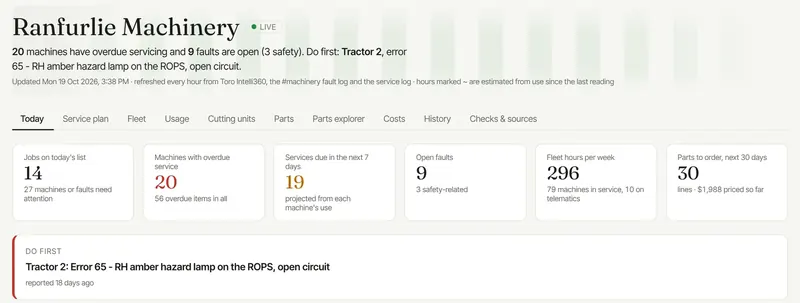
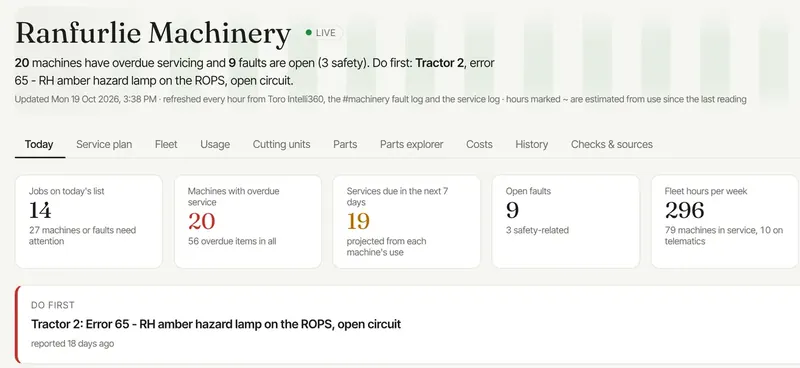
Showcase: add machinery parts blowup, remove budget pointers
Animated 3370 parts blowup (assembles and comes apart on scroll, with a
scrubber). Dropped the live read of the greens data file, took repo paths
out of screenshot frames, cropped the parts-priced tile off the machinery
screenshot.

Claude-Session: https://claude.ai/code/session_01XzEvadQZT5BamkSNE1nkJj

diff --git a/showcase/index.html b/showcase/index.html
@@ -388,6 +388,25 @@ p{margin:0 0 1em}
   .shot h3{font-size:26px}
 }
 
+/* ---------- parts blowup */
+.x3s{grid-column:span 12;display:grid;grid-template-columns:minmax(0,5fr) minmax(0,7fr);gap:clamp(22px,4vw,56px);align-items:center;margin-top:clamp(12px,3vw,30px)}
+.x3stage{position:relative;aspect-ratio:1;border-radius:22px;overflow:hidden;background:radial-gradient(ellipse at 50% 45%,#fff 0%,#eceee9 70%,#e2e4de 100%);border:1px solid var(--rule);box-shadow:0 30px 60px -34px rgba(19,48,74,.5);touch-action:pan-y}
+.x3wrap{position:absolute;inset:3%;transform-origin:50% 50%}
+.x3base,.x3lyr{position:absolute;inset:0;background-size:100% 100%;background-repeat:no-repeat}
+.x3lyr{will-change:transform}
+.x3lbl{position:absolute;left:0;top:0;transform:translate(-50%,-50%);white-space:nowrap;font:600 clamp(11px,1.15vw,14px)/1 var(--body);color:var(--ink);background:rgba(255,255,255,.94);border:1px solid var(--rule);border-radius:999px;padding:5px 9px;box-shadow:0 4px 12px -6px rgba(19,48,74,.45);opacity:0;pointer-events:none;z-index:40}
+.x3credit{position:absolute;right:12px;bottom:8px;font-size:11px;color:#8a8b85;z-index:41}
+.x3bar{display:flex;align-items:center;gap:12px;margin-top:14px;font-size:14px;color:var(--ink-2)}
+.x3bar input{flex:1;min-width:0;height:44px;accent-color:var(--ink);cursor:pointer}
+.x3bar .btn{min-height:40px;padding:0 16px;font-size:14px}
+.x3copy h3{font-size:44px;margin-bottom:14px}
+.x3copy p{color:var(--ink-2);font-size:17px}
+.x3copy ul{list-style:none;padding:0;margin:18px 0 0;display:grid;gap:10px}
+.x3copy li{padding-left:28px;position:relative;font-size:16px;color:var(--ink-2)}
+.x3copy li b{color:var(--ink)}
+.x3copy li::before{content:"";position:absolute;left:2px;top:6px;width:14px;height:14px;border-radius:4px;background:var(--dry);transform:rotate(45deg) scale(.8)}
+@media (max-width:980px){.x3s{grid-template-columns:minmax(0,1fr)}.x3s>*{min-width:0}.x3copy{order:-1}.x3copy h3{font-size:36px}.x3wrap{inset:1%}}
+
 /* ---------- ahead */
 .tiles{display:grid;grid-template-columns:repeat(3,minmax(0,1fr));gap:20px;margin-bottom:28px}
 .tile{background:var(--sheet);border:1px solid var(--rule);border-radius:16px;padding:20px 20px 18px;display:grid;grid-template-columns:auto 1fr;gap:16px;align-items:center}
@@ -690,7 +709,7 @@ html.og .stack .lbl{display:block}
     </div>
     <div class="bento">
       <figure class="shot s8">
-        <div class="frame" data-r="wipe"><div class="bar">ranfurlie-greens/irrigation</div><div class="pic"><img src="img/irrigation-3d.webp" srcset="img/irrigation-3d-800.webp 800w, img/irrigation-3d.webp 1600w" sizes="(max-width:980px) 100vw, 62vw" width="1600" height="1279" loading="lazy" decoding="async" alt="The irrigation dashboard in 3D: the course with open sprinkler jobs as pins"></div></div>
+        <div class="frame" data-r="wipe"><div class="bar">Irrigation board</div><div class="pic"><img src="img/irrigation-3d.webp" srcset="img/irrigation-3d-800.webp 800w, img/irrigation-3d.webp 1600w" sizes="(max-width:980px) 100vw, 62vw" width="1600" height="1279" loading="lazy" decoding="async" alt="The irrigation dashboard in 3D: the course with open sprinkler jobs as pins"></div></div>
       </figure>
       <div class="side-note s4" data-r>
         <h3>Irrigation</h3>
@@ -699,15 +718,15 @@ html.og .stack .lbl{display:block}
         <a class="go" href="../irrigation/">Open the irrigation board</a>
       </div>
       <figure class="shot s6">
-        <div class="frame" data-r="wipe"><div class="bar">ranfurlie-greens/drainage</div><div class="pic"><img src="img/drainage-3d.webp" srcset="img/drainage-3d-800.webp 800w, img/drainage-3d.webp 1600w" sizes="(max-width:980px) 100vw, 48vw" width="1600" height="1386" loading="lazy" decoding="async" alt="The drainage dashboard showing pipes and pits under the course in 3D"></div></div>
+        <div class="frame" data-r="wipe"><div class="bar">Drainage board</div><div class="pic"><img src="img/drainage-3d.webp" srcset="img/drainage-3d-800.webp 800w, img/drainage-3d.webp 1600w" sizes="(max-width:980px) 100vw, 48vw" width="1600" height="1386" loading="lazy" decoding="async" alt="The drainage dashboard showing pipes and pits under the course in 3D"></div></div>
         <figcaption data-r><h3>Drainage</h3><p>Pits, pipes and outfalls from the drainage plans, shown underground in 3D, with every reported blockage on top.</p><a class="go" href="../drainage/">Open the drainage board</a></figcaption>
       </figure>
       <figure class="shot s6">
-        <div class="frame" data-r="wipe" style="--rd:.15s"><div class="bar">ranfurlie-greens/bunkers</div><div class="pic"><img src="img/bunkers-3d.webp" srcset="img/bunkers-3d-800.webp 800w, img/bunkers-3d.webp 1600w" sizes="(max-width:980px) 100vw, 48vw" width="1600" height="1358" loading="lazy" decoding="async" alt="The bunker dashboard with every bunker on the course in 3D"></div></div>
+        <div class="frame" data-r="wipe" style="--rd:.15s"><div class="bar">Bunker board</div><div class="pic"><img src="img/bunkers-3d.webp" srcset="img/bunkers-3d-800.webp 800w, img/bunkers-3d.webp 1600w" sizes="(max-width:980px) 100vw, 48vw" width="1600" height="1358" loading="lazy" decoding="async" alt="The bunker dashboard with every bunker on the course in 3D"></div></div>
         <figcaption data-r><h3>Bunkers</h3><p>All 90 bunkers numbered and audited: washouts, exposed liner, sand top-ups and the sand used. A map video of the open work goes to the crew when it changes.</p><a class="go" href="../bunkers/">Open the bunker board</a></figcaption>
       </figure>
       <figure class="shot s5">
-        <div class="frame" data-r="wipe"><div class="bar">ranfurlie-greens</div><div class="pic"><img src="img/greens-map.webp" srcset="img/greens-map-800.webp 800w, img/greens-map.webp 1600w" sizes="(max-width:980px) 100vw, 40vw" width="1600" height="1310" loading="lazy" decoding="async" alt="The greens dashboard course map coloured by moisture from the latest TurfRad scan"></div></div>
+        <div class="frame" data-r="wipe"><div class="bar">Greens Live</div><div class="pic"><img src="img/greens-map.webp" srcset="img/greens-map-800.webp 800w, img/greens-map.webp 1600w" sizes="(max-width:980px) 100vw, 40vw" width="1600" height="1310" loading="lazy" decoding="async" alt="The greens dashboard course map coloured by moisture from the latest TurfRad scan"></div></div>
         <figcaption data-r><h3>Greens Live</h3><p>Moisture, growth, clippings, soil probes, disease cover, PGR clocks and the next three days of spray windows on one page. The monthly Greens Report for the committee is built from the same data.</p></figcaption>
       </figure>
       <div class="stackcol s7">
@@ -715,13 +734,31 @@ html.og .stack .lbl{display:block}
         <div class="frame" data-r="wipe" style="--rd:.2s"><div class="pic"><img src="img/greens-moisture-heat.webp" srcset="img/greens-moisture-heat-800.webp 800w, img/greens-moisture-heat.webp 1600w" sizes="(max-width:980px) 100vw, 56vw" width="1600" height="521" loading="lazy" decoding="async" alt="Moisture by green and by day, with the dry days outlined"></div></div>
       </div>
       <figure class="shot s7">
-        <div class="frame" data-r="wipe"><div class="bar">ranfurlie-greens/machinery</div><div class="pic"><img src="img/machinery-top.webp" srcset="img/machinery-top-800.webp 800w, img/machinery-top.webp 1600w" sizes="(max-width:980px) 100vw, 56vw" width="1600" height="606" loading="lazy" decoding="async" alt="The machinery dashboard: overdue services, open faults and the job to do first"></div></div>
+        <div class="frame" data-r="wipe"><div class="bar">Machinery</div><div class="pic"><img src="img/machinery-top.webp" srcset="img/machinery-top-800.webp 800w, img/machinery-top.webp 1316w" sizes="(max-width:980px) 100vw, 56vw" width="1316" height="606" loading="lazy" decoding="async" alt="The machinery dashboard: overdue services, open faults and the job to do first"></div></div>
         <figcaption data-r><h3>Machinery</h3><p>79 machines in service. Hours from Toro telematics, faults from Slack, and services projected from how much each machine actually gets used. The mechanic's list is waiting at 5:35 on weekday mornings, safety faults first.</p></figcaption>
       </figure>
       <figure class="shot s5">
         <div class="frame" data-r="wipe" style="--rd:.15s"><div class="pic"><img src="img/machinery-plan.webp" srcset="img/machinery-plan-800.webp 800w, img/machinery-plan.webp 1600w" sizes="(max-width:980px) 100vw, 40vw" width="1600" height="938" loading="lazy" decoding="async" alt="The next eight weeks of servicing, one row per machine"></div></div>
         <figcaption data-r><p>The next eight weeks of servicing, one row per machine. Red is overdue.</p></figcaption>
       </figure>
+      <div class="x3s" id="x3s">
+        <div class="x3copy" data-r>
+          <h3>Parts blowup</h3>
+          <p>The mechanic shouldn't need a parts book open to order a part. On the machinery board, 12 of our machine models come apart like this: tap any part and it shows the part numbers from the parts book, what's on the shelf, and where to order it.</p>
+          <ul>
+            <li><b>Genuine and aftermarket</b> side by side, so we pick the best value, not just the dealer's price.</li>
+            <li><b>Cutting units come out on their own</b>, with the bedknife, reel and bearing parts listed against them.</li>
+            <li><b>Stock counts update every hour</b> from the shed stocktake.</li>
+          </ul>
+        </div>
+        <div data-r="pop">
+          <div class="x3stage" id="x3stage" role="img" aria-label="A Toro Greensmaster eTriFlex 3370 greens mower that comes apart into its labelled parts: ROPS, seat, steering, battery covers, rear body, frame, lift arms, three cutting units, baskets and tyres.">
+            <div class="x3wrap" id="x3wrap"></div>
+            <span class="x3credit">Photo: Toro product image</span>
+          </div>
+          <div class="x3bar"><span>Assembled</span><input type="range" id="x3range" min="0" max="100" value="0" aria-label="Blow the mower apart"><span>Apart</span></div>
+        </div>
+      </div>
       <div class="phones s12">
         <div class="side-note" data-r>
           <h3>Spray mixes</h3>
@@ -745,7 +782,7 @@ html.og .stack .lbl{display:block}
   <div class="wrap">
     <div class="head">
       <h2 data-split>Seeing it before it shows.</h2>
-      <p class="lede" data-r>The best day on a course is the one where nothing goes wrong because we saw it coming. The greens dashboard keeps a running list of what's due, what's about to lapse and what the weather is going to do. This is that list, read straight from the live data.</p>
+      <p class="lede" data-r>The best day on a course is the one where nothing goes wrong because we saw it coming. The greens dashboard keeps a running list of what's due, what's about to lapse and what the weather is going to do. This is that list as it stood when this page was built.</p>
       <p><span class="live" id="liveTag">Snapshot</span></p>
     </div>
     <div class="tiles" id="tiles" data-stagger></div>
@@ -809,7 +846,7 @@ html.og .stack .lbl{display:block}
 </main>
 <footer>
   <div class="wrap">
-    <span>Built from the live data in this site's repository. Figures as of 19 October 2026 unless marked live.</span>
+    <span>Built from the crew dashboards' own data. Figures as of 19 October 2026.</span>
     <span>Made with Claude.</span>
   </div>
 </footer>
@@ -1095,6 +1132,48 @@ const G8={"green":[[-9.0,9.3],[-11.0,6.7],[-12.2,2.5],[-11.3,-3.1],[-9.5,-6.6],[
   onReveal(r,()=>{ if(mqMobile.matches&&!STILL) setTimeout(()=>{ r.scrollTo({left:60,behavior:'smooth'}); setTimeout(()=>r.scrollTo({left:0,behavior:'smooth'}),700); },900); });
 })();
 
+/* ---------- parts blowup */
+const X3={"w":554,"h":554,"parts":[{"l":"ROPS","ex":[25,-55],"poly":[[322,32],[338,18],[428,17],[470,38],[500,70],[506,92],[492,100],[484,140],[476,210],[470,268],[462,302],[449,300],[456,250],[466,150],[474,100],[468,74],[430,34],[346,32],[334,48],[352,72],[372,88],[378,98],[364,110],[357,140],[346,210],[338,213],[338,180],[348,120],[356,98],[338,80],[324,58]]},{"l":"Rear tyre","ex":[50,25],"poly":[[528.0,392.0],[527.5,399.6],[525.9,407.0],[523.4,414.0],[520.0,420.3],[515.9,425.7],[511.0,430.1],[505.6,433.3],[499.9,435.3],[494.0,436.0],[488.1,435.3],[482.4,433.3],[477.0,430.1],[472.1,425.7],[468.0,420.3],[464.6,414.0],[462.1,407.0],[460.5,399.6],[460.0,392.0],[460.5,384.4],[462.1,377.0],[464.6,370.0],[468.0,363.7],[472.1,358.3],[477.0,353.9],[482.4,350.7],[488.1,348.7],[494.0,348.0],[499.9,348.7],[505.6,350.7],[511.0,353.9],[515.9,358.3],[520.0,363.7],[523.4,370.0],[525.9,377.0],[527.5,384.4]]},{"l":"Rear body","ex":[55,-15],"poly":[[426,222],[462,216],[498,222],[540,256],[546,298],[530,322],[504,332],[468,338],[462,300],[440,290],[430,260]]},{"l":"Battery covers","ex":[40,10],"poly":[[262,284],[300,280],[420,284],[462,298],[468,330],[420,330],[350,326],[300,318],[262,312]]},{"l":"Seat","ex":[10,-45],"poly":[[352,165],[420,160],[428,175],[424,220],[416,262],[404,276],[300,276],[289,262],[292,248],[340,244],[346,200]]},{"l":"Steering","ex":[-45,-40],"poly":[[254,165],[275,155],[302,160],[326,180],[332,212],[318,236],[300,246],[244,244],[222,236],[214,226],[186,300],[178,322],[160,322],[172,286],[204,212],[216,196],[242,190],[254,178]]},{"l":"Frame and footplate","ex":[15,15],"poly":[[300,330],[360,326],[440,346],[476,344],[484,404],[452,412],[402,398],[334,392],[306,372]]},{"l":"Lift arms","ex":[-30,-5],"poly":[[140,318],[182,322],[218,334],[300,348],[306,370],[256,374],[218,360],[170,346],[140,334]]},{"l":"Cutting unit #1 centre","ex":[-10,30],"poly":[[196,372],[256,374],[306,374],[332,392],[330,424],[292,420],[232,406],[198,412]]},{"l":"Cutting unit #2","ex":[-45,15],"poly":[[95,356],[160,350],[198,368],[196,414],[150,420],[142,394],[112,380],[95,376]]},{"l":"Basket #2","ex":[-70,30],"poly":[[12,402],[40,382],[110,380],[142,396],[150,412],[148,472],[130,478],[26,466],[12,432]]},{"l":"Front tyre","ex":[40,40],"poly":[[459.0,444.0],[458.2,454.8],[455.7,465.2],[451.8,475.0],[446.4,483.9],[439.7,491.5],[432.0,497.7],[423.5,502.3],[414.4,505.1],[405.0,506.0],[395.6,505.1],[386.5,502.3],[378.0,497.7],[370.3,491.5],[363.6,483.9],[358.2,475.0],[354.3,465.2],[351.8,454.8],[351.0,444.0],[351.8,433.2],[354.3,422.8],[358.2,413.0],[363.6,404.1],[370.3,396.5],[378.0,390.3],[386.5,385.7],[395.6,382.9],[405.0,382.0],[414.4,382.9],[423.5,385.7],[432.0,390.3],[439.7,396.5],[446.4,404.1],[451.8,413.0],[455.7,422.8],[458.2,433.2]]},{"l":"Cutting unit #3","ex":[-20,40],"poly":[[244,396],[326,394],[350,446],[382,466],[380,526],[322,538],[296,528],[300,436],[286,410]]},{"l":"Basket #3","ex":[-55,55],"poly":[[150,424],[182,408],[286,412],[300,436],[300,502],[288,524],[168,506],[150,472]]}]};
+(function(){
+  const stage=$('#x3stage'), wrap=$('#x3wrap'), range=$('#x3range'); if(!stage) return;
+  const IMG='img/blowup-3370.webp', W=X3.w, Hh=X3.h, FX=matchMedia('(hover:hover) and (min-width:981px)').matches;
+  const base=document.createElement('div'); base.className='x3base'; base.style.backgroundImage=`url(${IMG})`; wrap.appendChild(base);
+  const L=X3.parts.map((p,i)=>{
+    const d=document.createElement('div'); d.className='x3lyr'; d.style.backgroundImage=`url(${IMG})`; d.style.zIndex=2+i;
+    d.style.clipPath='polygon('+p.poly.map(q=>(q[0]/W*100).toFixed(2)+'% '+(q[1]/Hh*100).toFixed(2)+'%').join(',')+')';
+    let cx=0,cy=0; p.poly.forEach(q=>{cx+=q[0];cy+=q[1]}); cx/=p.poly.length; cy/=p.poly.length;
+    d.style.transformOrigin=`${(cx/W*100).toFixed(2)}% ${(cy/Hh*100).toFixed(2)}%`;
+    wrap.appendChild(d);
+    const lb=document.createElement('span'); lb.className='x3lbl'; lb.textContent=p.l; wrap.appendChild(lb);
+    return {p,d,lb,cx,cy};
+  });
+  let t=0, goal=0, raf=null, auto=!(STILL||OG), seq=null, inView=false;
+  const ease=x=>x<.5?4*x*x*x:1-Math.pow(-2*x+2,3)/2;
+  function paint(){
+    const e=ease(t);
+    wrap.style.transform=`scale(${(1-.16*e).toFixed(3)})`;
+    base.style.opacity=(1-.72*e).toFixed(3);
+    if(FX) base.style.filter=`grayscale(${e.toFixed(2)}) blur(${(e*1.4).toFixed(2)}px)`;
+    L.forEach(x=>{
+      const dx=x.p.ex[0]/W*100*e*1.15, dy=x.p.ex[1]/Hh*100*e*1.15, sc=1+.05*e;
+      x.d.style.transform=`translate(${dx.toFixed(2)}%,${dy.toFixed(2)}%) scale(${sc.toFixed(3)})`;
+      if(FX) x.d.style.filter=e>.02?`drop-shadow(0 ${(10*e).toFixed(1)}px ${(14*e).toFixed(1)}px rgba(0,0,0,${(.32*e).toFixed(2)}))`:'none';
+      x.lb.style.left=((x.cx+x.p.ex[0]*e*1.15)/W*100).toFixed(2)+'%';
+      x.lb.style.top=((x.cy+x.p.ex[1]*e*1.15)/Hh*100).toFixed(2)+'%';
+      x.lb.style.opacity=Math.max(0,Math.min(1,(e-.45)*3)).toFixed(2);
+    });
+  }
+  function frame(){ t+=(goal-t)*.085; if(Math.abs(goal-t)<.002) t=goal; paint(); if(auto) range.value=Math.round(t*100);
+    raf=(t!==goal)?requestAnimationFrame(frame):null; }
+  const kick=()=>{ if(!raf) raf=requestAnimationFrame(frame); };
+  function loop(){ if(!auto||!inView) return; clearTimeout(seq);
+    seq=setTimeout(()=>{ goal=1; kick(); seq=setTimeout(()=>{ goal=0; kick(); seq=setTimeout(loop,2200); },3800); },900); }
+  range.addEventListener('input',()=>{ auto=false; clearTimeout(seq); goal=range.value/100; kick(); });
+  if(STILL||OG){ t=goal=1; range.value=100; paint(); return; }
+  paint();
+  new IntersectionObserver(es=>es.forEach(en=>{ inView=en.isIntersecting; if(inView) loop(); else clearTimeout(seq); }),{threshold:.35}).observe(stage);
+})();
+
 /* ---------- seeing ahead */
 const SNAP={"built":"Mon 19 Oct 2026, 6:27 AM","week":[{"date":"2026-10-19","cat":"Cultural","label":"Dusting interval (7 days)","detail":"last dust 2026-10-06"},{"date":"2026-10-19","cat":"Disease","label":"Fairy Ring moderate risk","detail":"no cover on approach, fairways, tees"},{"date":"2026-10-19","cat":"Planned","label":"5800 600L/Ha - Fairy Ring + Root Disease to Greens","detail":"Zeemil, Terreplex, Quali-Pro Evolution Advance (AU), Companion, HydroForce Ultra (AU)"},{"date":"2026-10-19","cat":"Spray","label":"Best spray day","detail":"4 good daylight hours (6:00-10:00)"},{"date":"2026-10-21","cat":"Cover","label":"Fairy Ring cover lapses","detail":"Velista (AU) \u00b7 greens"},{"date":"2026-10-21","cat":"Cover","label":"Pythium Root Rot cover lapses","detail":"Magellan \u00b7 greens"},{"date":"2026-10-22","cat":"Disease","label":"Anthracnose moderate risk","detail":"no cover on approach, greens"},{"date":"2026-10-22","cat":"Planned","label":"JD 500L/Ha - Tees - PGR + Fert","detail":"Shadow Ultra (AU), Grass Roots Iron (0-0-0), Liquimaxx Greenmaxx 20-0-0 AU (20-0-0)"},{"date":"2026-10-24","cat":"Weather","label":"Rain 27 mm","detail":"59% chance (Open-Meteo)"},{"date":"2026-10-26","cat":"Weather","label":"Rain 8 mm","detail":"56% chance (Open-Meteo)"},{"date":"2026-10-27","cat":"PGR","label":"Trinexapac due","detail":"200 GDD0 (now 67) \u00b7 last 2026-10-14"},{"date":"2026-10-27","cat":"Planned","label":"JD 300L/Ha - Fairways - Wetting Agent + LuxiMax","detail":"Pervade, Luximax"},{"date":"2026-10-27","cat":"Planned","label":"JD 600L/Ha - Tees - Wetting Agent","detail":"Pervade"},{"date":"2026-10-28","cat":"PGR","label":"Ethephon window opens","detail":"day 14 of the 14-28 day label interval"},{"date":"2026-10-30","cat":"PGR","label":"Paclobutrazol due","detail":"350 GDD0 (now 178) \u00b7 last 2026-10-07"}],"wa":{"effectiveness":0.629,"due_date":"2026-11-07","last_app":"2026-09-24","cum_et_mm":80.4,"product":"HydroForce Ultra (AU)"},"fw":{"need_holes":10,"need_kl":836.3,"as_of":"2026-10-19","course_now":18.2,"et_today_mm":5.66},"disease":[{"label":"Anthracnose","level_today":"none","level_peak":"moderate","peak_date":"2026-10-22"},{"label":"Fairy Ring","level_today":"moderate","level_peak":"moderate","peak_date":"2026-10-19"}],"clocks":[{"clock":"Trinexapac","area":"Greens","gdd":67.0,"target_gdd":200,"last_app":"2026-10-14","window_open_day":null,"days_since":5},{"clock":"Paclobutrazol","area":"Greens","gdd":178.0,"target_gdd":350,"last_app":"2026-10-07","window_open_day":null,"days_since":12},{"clock":"Ethephon","area":"Greens","gdd":67.0,"target_gdd":null,"last_app":"2026-10-14","window_open_day":14,"days_since":5},{"clock":"Couch TE","area":"Fairways","gdd":107.0,"target_gdd":252,"last_app":"2026-09-29","window_open_day":null,"days_since":20}]};
 const CAT={Spray:'#2E6A46',Disease:'#C2372C',Cover:'#C07A17',PGR:'#1C74C4',Planned:'#13304A',Weather:'#2B7A78',Cultural:'#768A98'};
@@ -1122,20 +1201,14 @@ function renderAhead(F,isLive){
     }
     $('#week').innerHTML=cols.join('');
   } else $('#week').innerHTML='<p class="empty">Nothing coming up.</p>';
-  const tag=$('#liveTag'); tag.textContent=isLive?`Live from the greens dashboard, built ${F.built}`:`Snapshot from ${F.built||'19 Oct 2026'}`; tag.classList.toggle('on',!!isLive);
+  const tag=$('#liveTag'); tag.textContent=`From the greens dashboard, ${F.built||'19 Oct 2026'}`; tag.classList.add('on');
   const fresh=$$('#tiles [data-r],#week [data-r]');
   if(STILL||OG||aheadShown){ fresh.forEach(e=>e.classList.add('in')); fillGauges(); }
   else fresh.forEach(e=>io.observe(e));
 }
 renderAhead(SNAP,false);
 onReveal($('#tiles'),()=>{ aheadShown=true; setTimeout(fillGauges,250); });
-function fromData(D){
-  const wa=(D.wetting_agent||[]).find(w=>w.zone==='greens')||{}, fp=(D.fairway_params||[])[0]||{};
-  return {built:D._built,week:(D.week_ahead||[]).map(w=>({date:w.date,cat:w.cat,label:w.label,detail:w.detail})),wa,fw:fp,clocks:D.clocks||[]};
-}
-let fetched=false;
-const go=()=>{if(fetched)return;fetched=true;fetch('../data.json',{cache:'no-store'}).then(r=>r.ok?r.json():Promise.reject()).then(D=>{try{renderAhead(fromData(D),true)}catch(e){renderAhead(SNAP,false)}}).catch(()=>{})};
-const io2=new IntersectionObserver(es=>{if(es.some(e=>e.isIntersecting)){go();io2.disconnect()}},{rootMargin:'900px'}); io2.observe($('#ahead'));
+
 })();
 </script>
 </body>

diff --git a/showcase/_build/template.html b/showcase/_build/template.html
@@ -388,6 +388,25 @@ p{margin:0 0 1em}
   .shot h3{font-size:26px}
 }
 
+/* ---------- parts blowup */
+.x3s{grid-column:span 12;display:grid;grid-template-columns:minmax(0,5fr) minmax(0,7fr);gap:clamp(22px,4vw,56px);align-items:center;margin-top:clamp(12px,3vw,30px)}
+.x3stage{position:relative;aspect-ratio:1;border-radius:22px;overflow:hidden;background:radial-gradient(ellipse at 50% 45%,#fff 0%,#eceee9 70%,#e2e4de 100%);border:1px solid var(--rule);box-shadow:0 30px 60px -34px rgba(19,48,74,.5);touch-action:pan-y}
+.x3wrap{position:absolute;inset:3%;transform-origin:50% 50%}
+.x3base,.x3lyr{position:absolute;inset:0;background-size:100% 100%;background-repeat:no-repeat}
+.x3lyr{will-change:transform}
+.x3lbl{position:absolute;left:0;top:0;transform:translate(-50%,-50%);white-space:nowrap;font:600 clamp(11px,1.15vw,14px)/1 var(--body);color:var(--ink);background:rgba(255,255,255,.94);border:1px solid var(--rule);border-radius:999px;padding:5px 9px;box-shadow:0 4px 12px -6px rgba(19,48,74,.45);opacity:0;pointer-events:none;z-index:40}
+.x3credit{position:absolute;right:12px;bottom:8px;font-size:11px;color:#8a8b85;z-index:41}
+.x3bar{display:flex;align-items:center;gap:12px;margin-top:14px;font-size:14px;color:var(--ink-2)}
+.x3bar input{flex:1;min-width:0;height:44px;accent-color:var(--ink);cursor:pointer}
+.x3bar .btn{min-height:40px;padding:0 16px;font-size:14px}
+.x3copy h3{font-size:44px;margin-bottom:14px}
+.x3copy p{color:var(--ink-2);font-size:17px}
+.x3copy ul{list-style:none;padding:0;margin:18px 0 0;display:grid;gap:10px}
+.x3copy li{padding-left:28px;position:relative;font-size:16px;color:var(--ink-2)}
+.x3copy li b{color:var(--ink)}
+.x3copy li::before{content:"";position:absolute;left:2px;top:6px;width:14px;height:14px;border-radius:4px;background:var(--dry);transform:rotate(45deg) scale(.8)}
+@media (max-width:980px){.x3s{grid-template-columns:minmax(0,1fr)}.x3s>*{min-width:0}.x3copy{order:-1}.x3copy h3{font-size:36px}.x3wrap{inset:1%}}
+
 /* ---------- ahead */
 .tiles{display:grid;grid-template-columns:repeat(3,minmax(0,1fr));gap:20px;margin-bottom:28px}
 .tile{background:var(--sheet);border:1px solid var(--rule);border-radius:16px;padding:20px 20px 18px;display:grid;grid-template-columns:auto 1fr;gap:16px;align-items:center}
@@ -690,7 +709,7 @@ html.og .stack .lbl{display:block}
     </div>
     <div class="bento">
       <figure class="shot s8">
-        <div class="frame" data-r="wipe"><div class="bar">ranfurlie-greens/irrigation</div><div class="pic"><img src="img/irrigation-3d.webp" srcset="img/irrigation-3d-800.webp 800w, img/irrigation-3d.webp 1600w" sizes="(max-width:980px) 100vw, 62vw" width="1600" height="1279" loading="lazy" decoding="async" alt="The irrigation dashboard in 3D: the course with open sprinkler jobs as pins"></div></div>
+        <div class="frame" data-r="wipe"><div class="bar">Irrigation board</div><div class="pic"><img src="img/irrigation-3d.webp" srcset="img/irrigation-3d-800.webp 800w, img/irrigation-3d.webp 1600w" sizes="(max-width:980px) 100vw, 62vw" width="1600" height="1279" loading="lazy" decoding="async" alt="The irrigation dashboard in 3D: the course with open sprinkler jobs as pins"></div></div>
       </figure>
       <div class="side-note s4" data-r>
         <h3>Irrigation</h3>
@@ -699,15 +718,15 @@ html.og .stack .lbl{display:block}
         <a class="go" href="../irrigation/">Open the irrigation board</a>
       </div>
       <figure class="shot s6">
-        <div class="frame" data-r="wipe"><div class="bar">ranfurlie-greens/drainage</div><div class="pic"><img src="img/drainage-3d.webp" srcset="img/drainage-3d-800.webp 800w, img/drainage-3d.webp 1600w" sizes="(max-width:980px) 100vw, 48vw" width="1600" height="1386" loading="lazy" decoding="async" alt="The drainage dashboard showing pipes and pits under the course in 3D"></div></div>
+        <div class="frame" data-r="wipe"><div class="bar">Drainage board</div><div class="pic"><img src="img/drainage-3d.webp" srcset="img/drainage-3d-800.webp 800w, img/drainage-3d.webp 1600w" sizes="(max-width:980px) 100vw, 48vw" width="1600" height="1386" loading="lazy" decoding="async" alt="The drainage dashboard showing pipes and pits under the course in 3D"></div></div>
         <figcaption data-r><h3>Drainage</h3><p>Pits, pipes and outfalls from the drainage plans, shown underground in 3D, with every reported blockage on top.</p><a class="go" href="../drainage/">Open the drainage board</a></figcaption>
       </figure>
       <figure class="shot s6">
-        <div class="frame" data-r="wipe" style="--rd:.15s"><div class="bar">ranfurlie-greens/bunkers</div><div class="pic"><img src="img/bunkers-3d.webp" srcset="img/bunkers-3d-800.webp 800w, img/bunkers-3d.webp 1600w" sizes="(max-width:980px) 100vw, 48vw" width="1600" height="1358" loading="lazy" decoding="async" alt="The bunker dashboard with every bunker on the course in 3D"></div></div>
+        <div class="frame" data-r="wipe" style="--rd:.15s"><div class="bar">Bunker board</div><div class="pic"><img src="img/bunkers-3d.webp" srcset="img/bunkers-3d-800.webp 800w, img/bunkers-3d.webp 1600w" sizes="(max-width:980px) 100vw, 48vw" width="1600" height="1358" loading="lazy" decoding="async" alt="The bunker dashboard with every bunker on the course in 3D"></div></div>
         <figcaption data-r><h3>Bunkers</h3><p>All 90 bunkers numbered and audited: washouts, exposed liner, sand top-ups and the sand used. A map video of the open work goes to the crew when it changes.</p><a class="go" href="../bunkers/">Open the bunker board</a></figcaption>
       </figure>
       <figure class="shot s5">
-        <div class="frame" data-r="wipe"><div class="bar">ranfurlie-greens</div><div class="pic"><img src="img/greens-map.webp" srcset="img/greens-map-800.webp 800w, img/greens-map.webp 1600w" sizes="(max-width:980px) 100vw, 40vw" width="1600" height="1310" loading="lazy" decoding="async" alt="The greens dashboard course map coloured by moisture from the latest TurfRad scan"></div></div>
+        <div class="frame" data-r="wipe"><div class="bar">Greens Live</div><div class="pic"><img src="img/greens-map.webp" srcset="img/greens-map-800.webp 800w, img/greens-map.webp 1600w" sizes="(max-width:980px) 100vw, 40vw" width="1600" height="1310" loading="lazy" decoding="async" alt="The greens dashboard course map coloured by moisture from the latest TurfRad scan"></div></div>
         <figcaption data-r><h3>Greens Live</h3><p>Moisture, growth, clippings, soil probes, disease cover, PGR clocks and the next three days of spray windows on one page. The monthly Greens Report for the committee is built from the same data.</p></figcaption>
       </figure>
       <div class="stackcol s7">
@@ -715,13 +734,31 @@ html.og .stack .lbl{display:block}
         <div class="frame" data-r="wipe" style="--rd:.2s"><div class="pic"><img src="img/greens-moisture-heat.webp" srcset="img/greens-moisture-heat-800.webp 800w, img/greens-moisture-heat.webp 1600w" sizes="(max-width:980px) 100vw, 56vw" width="1600" height="521" loading="lazy" decoding="async" alt="Moisture by green and by day, with the dry days outlined"></div></div>
       </div>
       <figure class="shot s7">
-        <div class="frame" data-r="wipe"><div class="bar">ranfurlie-greens/machinery</div><div class="pic"><img src="img/machinery-top.webp" srcset="img/machinery-top-800.webp 800w, img/machinery-top.webp 1600w" sizes="(max-width:980px) 100vw, 56vw" width="1600" height="606" loading="lazy" decoding="async" alt="The machinery dashboard: overdue services, open faults and the job to do first"></div></div>
+        <div class="frame" data-r="wipe"><div class="bar">Machinery</div><div class="pic"><img src="img/machinery-top.webp" srcset="img/machinery-top-800.webp 800w, img/machinery-top.webp 1316w" sizes="(max-width:980px) 100vw, 56vw" width="1316" height="606" loading="lazy" decoding="async" alt="The machinery dashboard: overdue services, open faults and the job to do first"></div></div>
         <figcaption data-r><h3>Machinery</h3><p>{{MACHINES_ACTIVE}} machines in service. Hours from Toro telematics, faults from Slack, and services projected from how much each machine actually gets used. The mechanic's list is waiting at 5:35 on weekday mornings, safety faults first.</p></figcaption>
       </figure>
       <figure class="shot s5">
         <div class="frame" data-r="wipe" style="--rd:.15s"><div class="pic"><img src="img/machinery-plan.webp" srcset="img/machinery-plan-800.webp 800w, img/machinery-plan.webp 1600w" sizes="(max-width:980px) 100vw, 40vw" width="1600" height="938" loading="lazy" decoding="async" alt="The next eight weeks of servicing, one row per machine"></div></div>
         <figcaption data-r><p>The next eight weeks of servicing, one row per machine. Red is overdue.</p></figcaption>
       </figure>
+      <div class="x3s" id="x3s">
+        <div class="x3copy" data-r>
+          <h3>Parts blowup</h3>
+          <p>The mechanic shouldn't need a parts book open to order a part. On the machinery board, {{X3_MODELS}} of our machine models come apart like this: tap any part and it shows the part numbers from the parts book, what's on the shelf, and where to order it.</p>
+          <ul>
+            <li><b>Genuine and aftermarket</b> side by side, so we pick the best value, not just the dealer's price.</li>
+            <li><b>Cutting units come out on their own</b>, with the bedknife, reel and bearing parts listed against them.</li>
+            <li><b>Stock counts update every hour</b> from the shed stocktake.</li>
+          </ul>
+        </div>
+        <div data-r="pop">
+          <div class="x3stage" id="x3stage" role="img" aria-label="A Toro Greensmaster eTriFlex 3370 greens mower that comes apart into its labelled parts: ROPS, seat, steering, battery covers, rear body, frame, lift arms, three cutting units, baskets and tyres.">
+            <div class="x3wrap" id="x3wrap"></div>
+            <span class="x3credit">Photo: Toro product image</span>
+          </div>
+          <div class="x3bar"><span>Assembled</span><input type="range" id="x3range" min="0" max="100" value="0" aria-label="Blow the mower apart"><span>Apart</span></div>
+        </div>
+      </div>
       <div class="phones s12">
         <div class="side-note" data-r>
           <h3>Spray mixes</h3>
@@ -745,7 +782,7 @@ html.og .stack .lbl{display:block}
   <div class="wrap">
     <div class="head">
       <h2 data-split>Seeing it before it shows.</h2>
-      <p class="lede" data-r>The best day on a course is the one where nothing goes wrong because we saw it coming. The greens dashboard keeps a running list of what's due, what's about to lapse and what the weather is going to do. This is that list, read straight from the live data.</p>
+      <p class="lede" data-r>The best day on a course is the one where nothing goes wrong because we saw it coming. The greens dashboard keeps a running list of what's due, what's about to lapse and what the weather is going to do. This is that list as it stood when this page was built.</p>
       <p><span class="live" id="liveTag">Snapshot</span></p>
     </div>
     <div class="tiles" id="tiles" data-stagger></div>
@@ -809,7 +846,7 @@ html.og .stack .lbl{display:block}
 </main>
 <footer>
   <div class="wrap">
-    <span>Built from the live data in this site's repository. Figures as of 19 October 2026 unless marked live.</span>
+    <span>Built from the crew dashboards' own data. Figures as of 19 October 2026.</span>
     <span>Made with Claude.</span>
   </div>
 </footer>
@@ -1095,6 +1132,48 @@ const G8=__G8__;
   onReveal(r,()=>{ if(mqMobile.matches&&!STILL) setTimeout(()=>{ r.scrollTo({left:60,behavior:'smooth'}); setTimeout(()=>r.scrollTo({left:0,behavior:'smooth'}),700); },900); });
 })();
 
+/* ---------- parts blowup */
+const X3=__X3__;
+(function(){
+  const stage=$('#x3stage'), wrap=$('#x3wrap'), range=$('#x3range'); if(!stage) return;
+  const IMG='img/blowup-3370.webp', W=X3.w, Hh=X3.h, FX=matchMedia('(hover:hover) and (min-width:981px)').matches;
+  const base=document.createElement('div'); base.className='x3base'; base.style.backgroundImage=`url(${IMG})`; wrap.appendChild(base);
+  const L=X3.parts.map((p,i)=>{
+    const d=document.createElement('div'); d.className='x3lyr'; d.style.backgroundImage=`url(${IMG})`; d.style.zIndex=2+i;
+    d.style.clipPath='polygon('+p.poly.map(q=>(q[0]/W*100).toFixed(2)+'% '+(q[1]/Hh*100).toFixed(2)+'%').join(',')+')';
+    let cx=0,cy=0; p.poly.forEach(q=>{cx+=q[0];cy+=q[1]}); cx/=p.poly.length; cy/=p.poly.length;
+    d.style.transformOrigin=`${(cx/W*100).toFixed(2)}% ${(cy/Hh*100).toFixed(2)}%`;
+    wrap.appendChild(d);
+    const lb=document.createElement('span'); lb.className='x3lbl'; lb.textContent=p.l; wrap.appendChild(lb);
+    return {p,d,lb,cx,cy};
+  });
+  let t=0, goal=0, raf=null, auto=!(STILL||OG), seq=null, inView=false;
+  const ease=x=>x<.5?4*x*x*x:1-Math.pow(-2*x+2,3)/2;
+  function paint(){
+    const e=ease(t);
+    wrap.style.transform=`scale(${(1-.16*e).toFixed(3)})`;
+    base.style.opacity=(1-.72*e).toFixed(3);
+    if(FX) base.style.filter=`grayscale(${e.toFixed(2)}) blur(${(e*1.4).toFixed(2)}px)`;
+    L.forEach(x=>{
+      const dx=x.p.ex[0]/W*100*e*1.15, dy=x.p.ex[1]/Hh*100*e*1.15, sc=1+.05*e;
+      x.d.style.transform=`translate(${dx.toFixed(2)}%,${dy.toFixed(2)}%) scale(${sc.toFixed(3)})`;
+      if(FX) x.d.style.filter=e>.02?`drop-shadow(0 ${(10*e).toFixed(1)}px ${(14*e).toFixed(1)}px rgba(0,0,0,${(.32*e).toFixed(2)}))`:'none';
+      x.lb.style.left=((x.cx+x.p.ex[0]*e*1.15)/W*100).toFixed(2)+'%';
+      x.lb.style.top=((x.cy+x.p.ex[1]*e*1.15)/Hh*100).toFixed(2)+'%';
+      x.lb.style.opacity=Math.max(0,Math.min(1,(e-.45)*3)).toFixed(2);
+    });
+  }
+  function frame(){ t+=(goal-t)*.085; if(Math.abs(goal-t)<.002) t=goal; paint(); if(auto) range.value=Math.round(t*100);
+    raf=(t!==goal)?requestAnimationFrame(frame):null; }
+  const kick=()=>{ if(!raf) raf=requestAnimationFrame(frame); };
+  function loop(){ if(!auto||!inView) return; clearTimeout(seq);
+    seq=setTimeout(()=>{ goal=1; kick(); seq=setTimeout(()=>{ goal=0; kick(); seq=setTimeout(loop,2200); },3800); },900); }
+  range.addEventListener('input',()=>{ auto=false; clearTimeout(seq); goal=range.value/100; kick(); });
+  if(STILL||OG){ t=goal=1; range.value=100; paint(); return; }
+  paint();
+  new IntersectionObserver(es=>es.forEach(en=>{ inView=en.isIntersecting; if(inView) loop(); else clearTimeout(seq); }),{threshold:.35}).observe(stage);
+})();
+
 /* ---------- seeing ahead */
 const SNAP=__FWD__;
 const CAT={Spray:'#2E6A46',Disease:'#C2372C',Cover:'#C07A17',PGR:'#1C74C4',Planned:'#13304A',Weather:'#2B7A78',Cultural:'#768A98'};
@@ -1122,20 +1201,14 @@ function renderAhead(F,isLive){
     }
     $('#week').innerHTML=cols.join('');
   } else $('#week').innerHTML='<p class="empty">Nothing coming up.</p>';
-  const tag=$('#liveTag'); tag.textContent=isLive?`Live from the greens dashboard, built ${F.built}`:`Snapshot from ${F.built||'19 Oct 2026'}`; tag.classList.toggle('on',!!isLive);
+  const tag=$('#liveTag'); tag.textContent=`From the greens dashboard, ${F.built||'19 Oct 2026'}`; tag.classList.add('on');
   const fresh=$$('#tiles [data-r],#week [data-r]');
   if(STILL||OG||aheadShown){ fresh.forEach(e=>e.classList.add('in')); fillGauges(); }
   else fresh.forEach(e=>io.observe(e));
 }
 renderAhead(SNAP,false);
 onReveal($('#tiles'),()=>{ aheadShown=true; setTimeout(fillGauges,250); });
-function fromData(D){
-  const wa=(D.wetting_agent||[]).find(w=>w.zone==='greens')||{}, fp=(D.fairway_params||[])[0]||{};
-  return {built:D._built,week:(D.week_ahead||[]).map(w=>({date:w.date,cat:w.cat,label:w.label,detail:w.detail})),wa,fw:fp,clocks:D.clocks||[]};
-}
-let fetched=false;
-const go=()=>{if(fetched)return;fetched=true;fetch('../data.json',{cache:'no-store'}).then(r=>r.ok?r.json():Promise.reject()).then(D=>{try{renderAhead(fromData(D),true)}catch(e){renderAhead(SNAP,false)}}).catch(()=>{})};
-const io2=new IntersectionObserver(es=>{if(es.some(e=>e.isIntersecting)){go();io2.disconnect()}},{rootMargin:'900px'}); io2.observe($('#ahead'));
+
 })();
 </script>
 </body>

diff --git a/showcase/_build/build.py b/showcase/_build/build.py
@@ -378,6 +378,13 @@ def forward_snapshot():
     }
 
 
+# ---------------------------------------------------------------- machinery parts blowup (3370)
+_x3 = json.load(open(os.path.join(ROOT, 'machinery', 'photo3370.json')))
+X3 = {'w': _x3['w'], 'h': _x3['h'],
+      'parts': [{'l': p['label'], 'ex': p['ex'], 'poly': p['poly']} for p in _x3['parts']]}
+_src = open(os.path.join(ROOT, 'machinery', 'index.html')).read()
+X3_MODELS = len(re.findall(r"'[a-z0-9]+': gh \? 'photo", _src))
+
 # ---------------------------------------------------------------- go
 hero, pin_counts = hero_svg()
 tpl = open(os.path.join(HERE, 'template.html')).read()
@@ -388,6 +395,8 @@ repl = {
     '__G18__': json.dumps(G18, separators=(',', ':')),
     '__G8__': json.dumps(G8, separators=(',', ':')),
     '__FWD__': json.dumps(forward_snapshot(), separators=(',', ':')),
+    '__X3__': json.dumps(X3, separators=(',', ':')),
+    '{{X3_MODELS}}': str(X3_MODELS),
     '{{WEEKDAY_RUNS}}': str(WEEKDAY_RUNS),
     '{{TASK_COUNT}}': str(len(TASKS)),
     '{{MACHINES_ACTIVE}}': str(json.load(open(os.path.join(ROOT, 'machinery', 'data.json')))['m_summary'][0]['active']),
